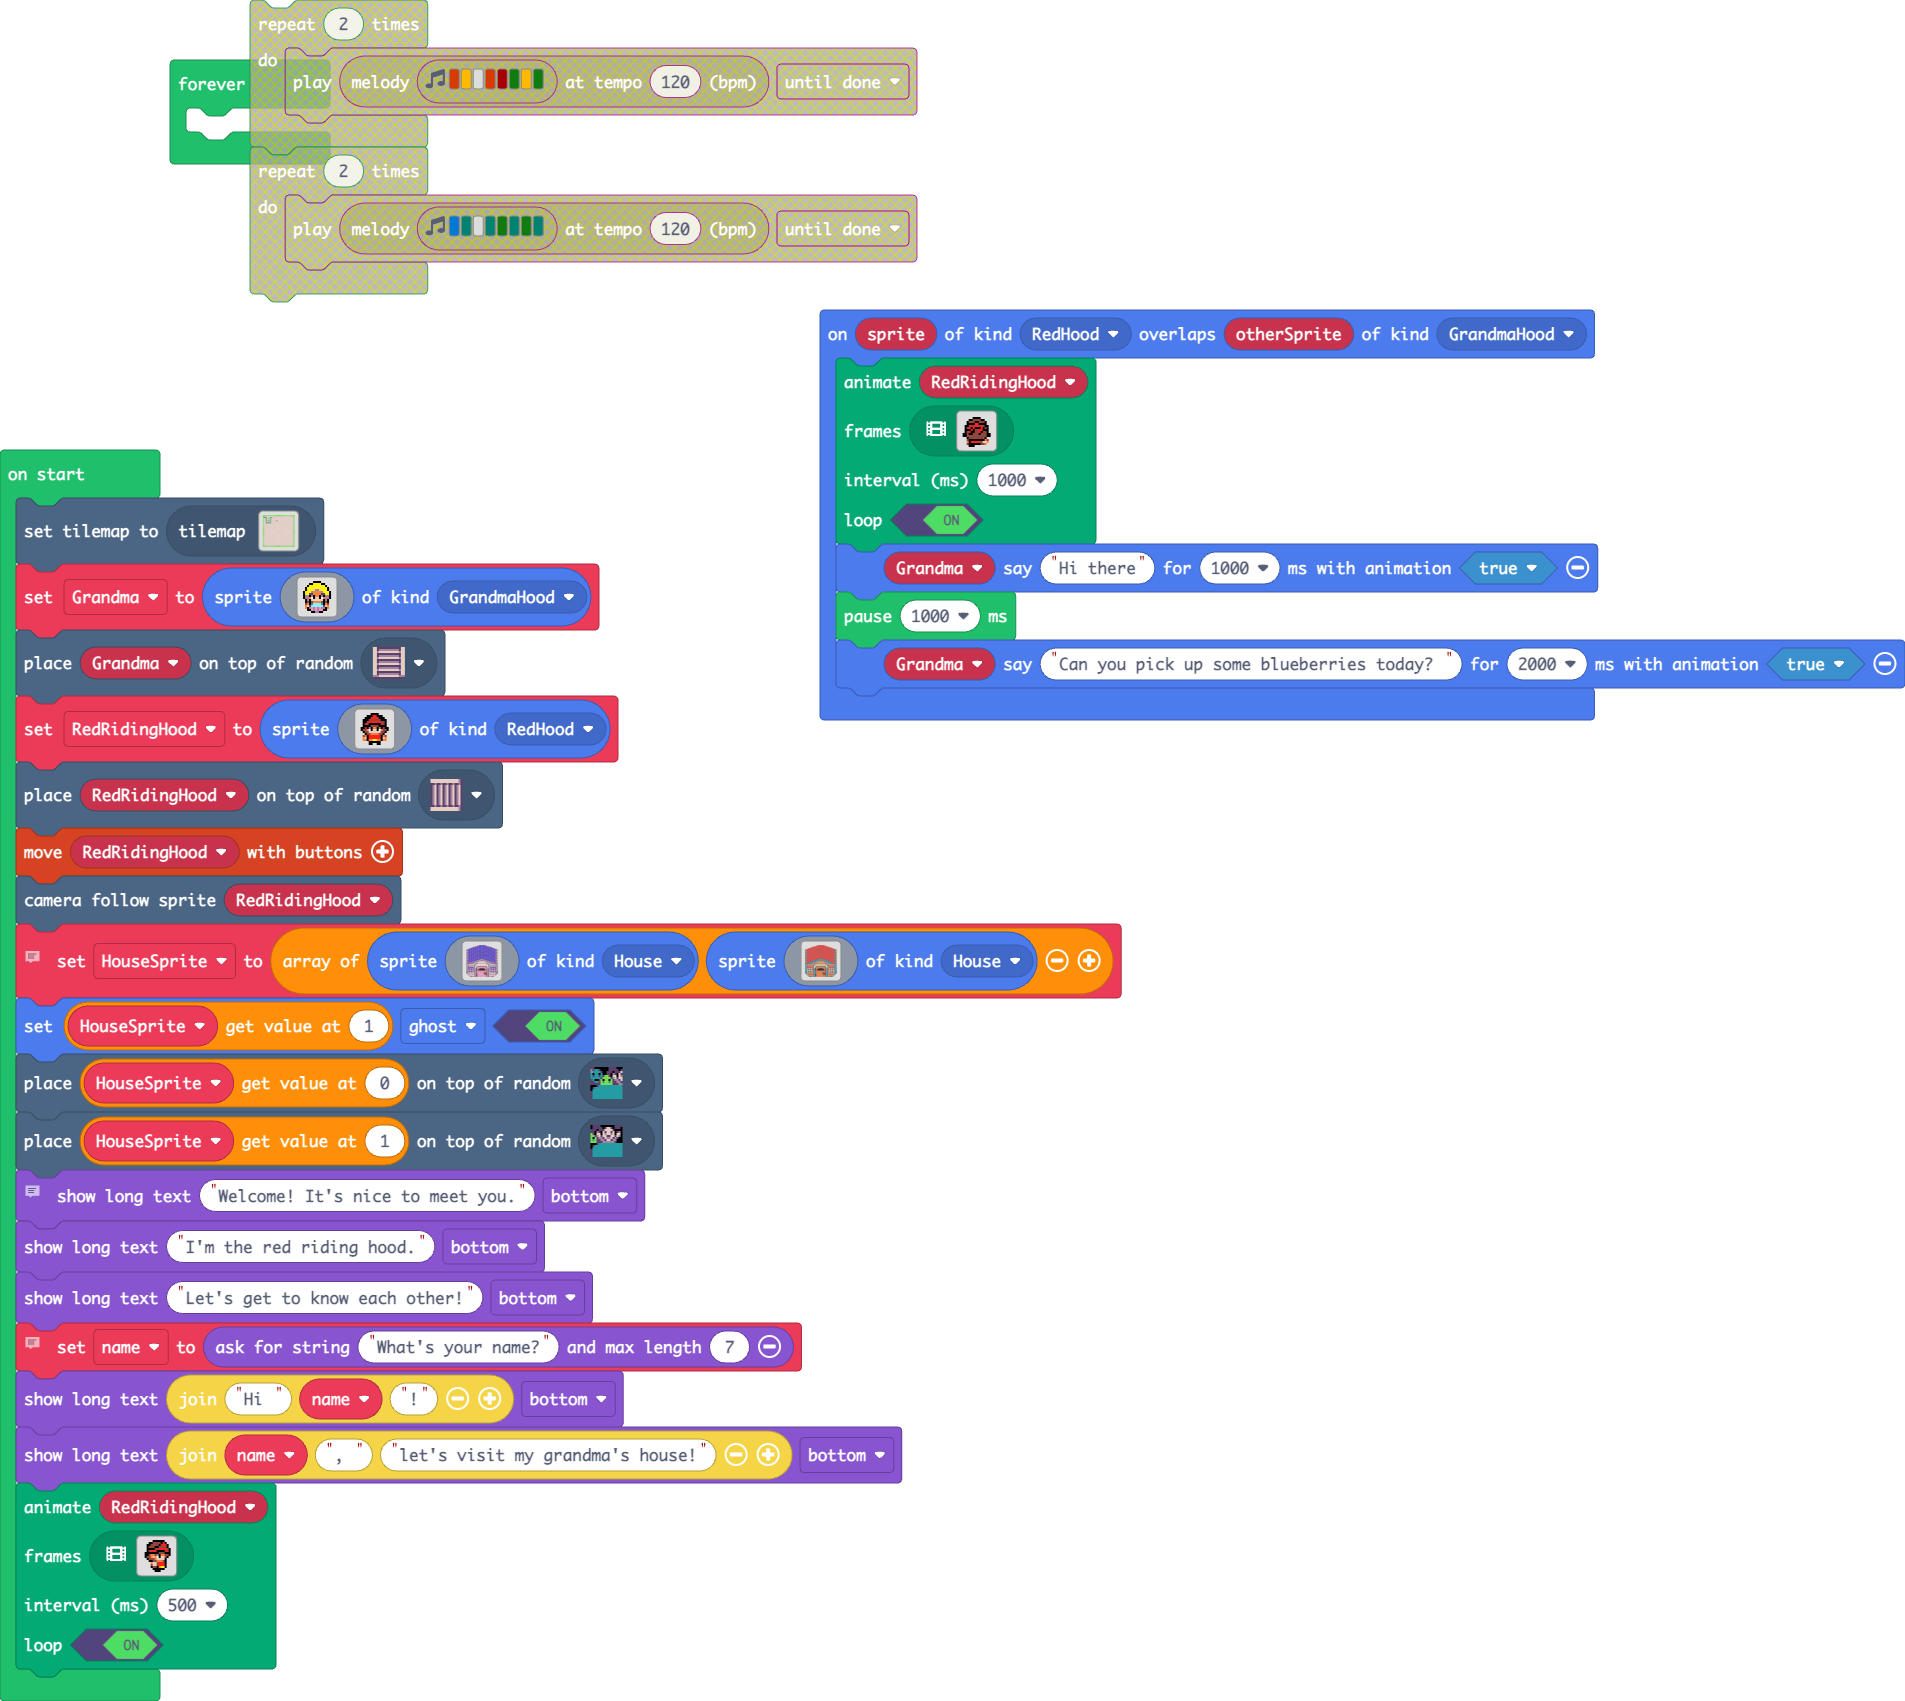
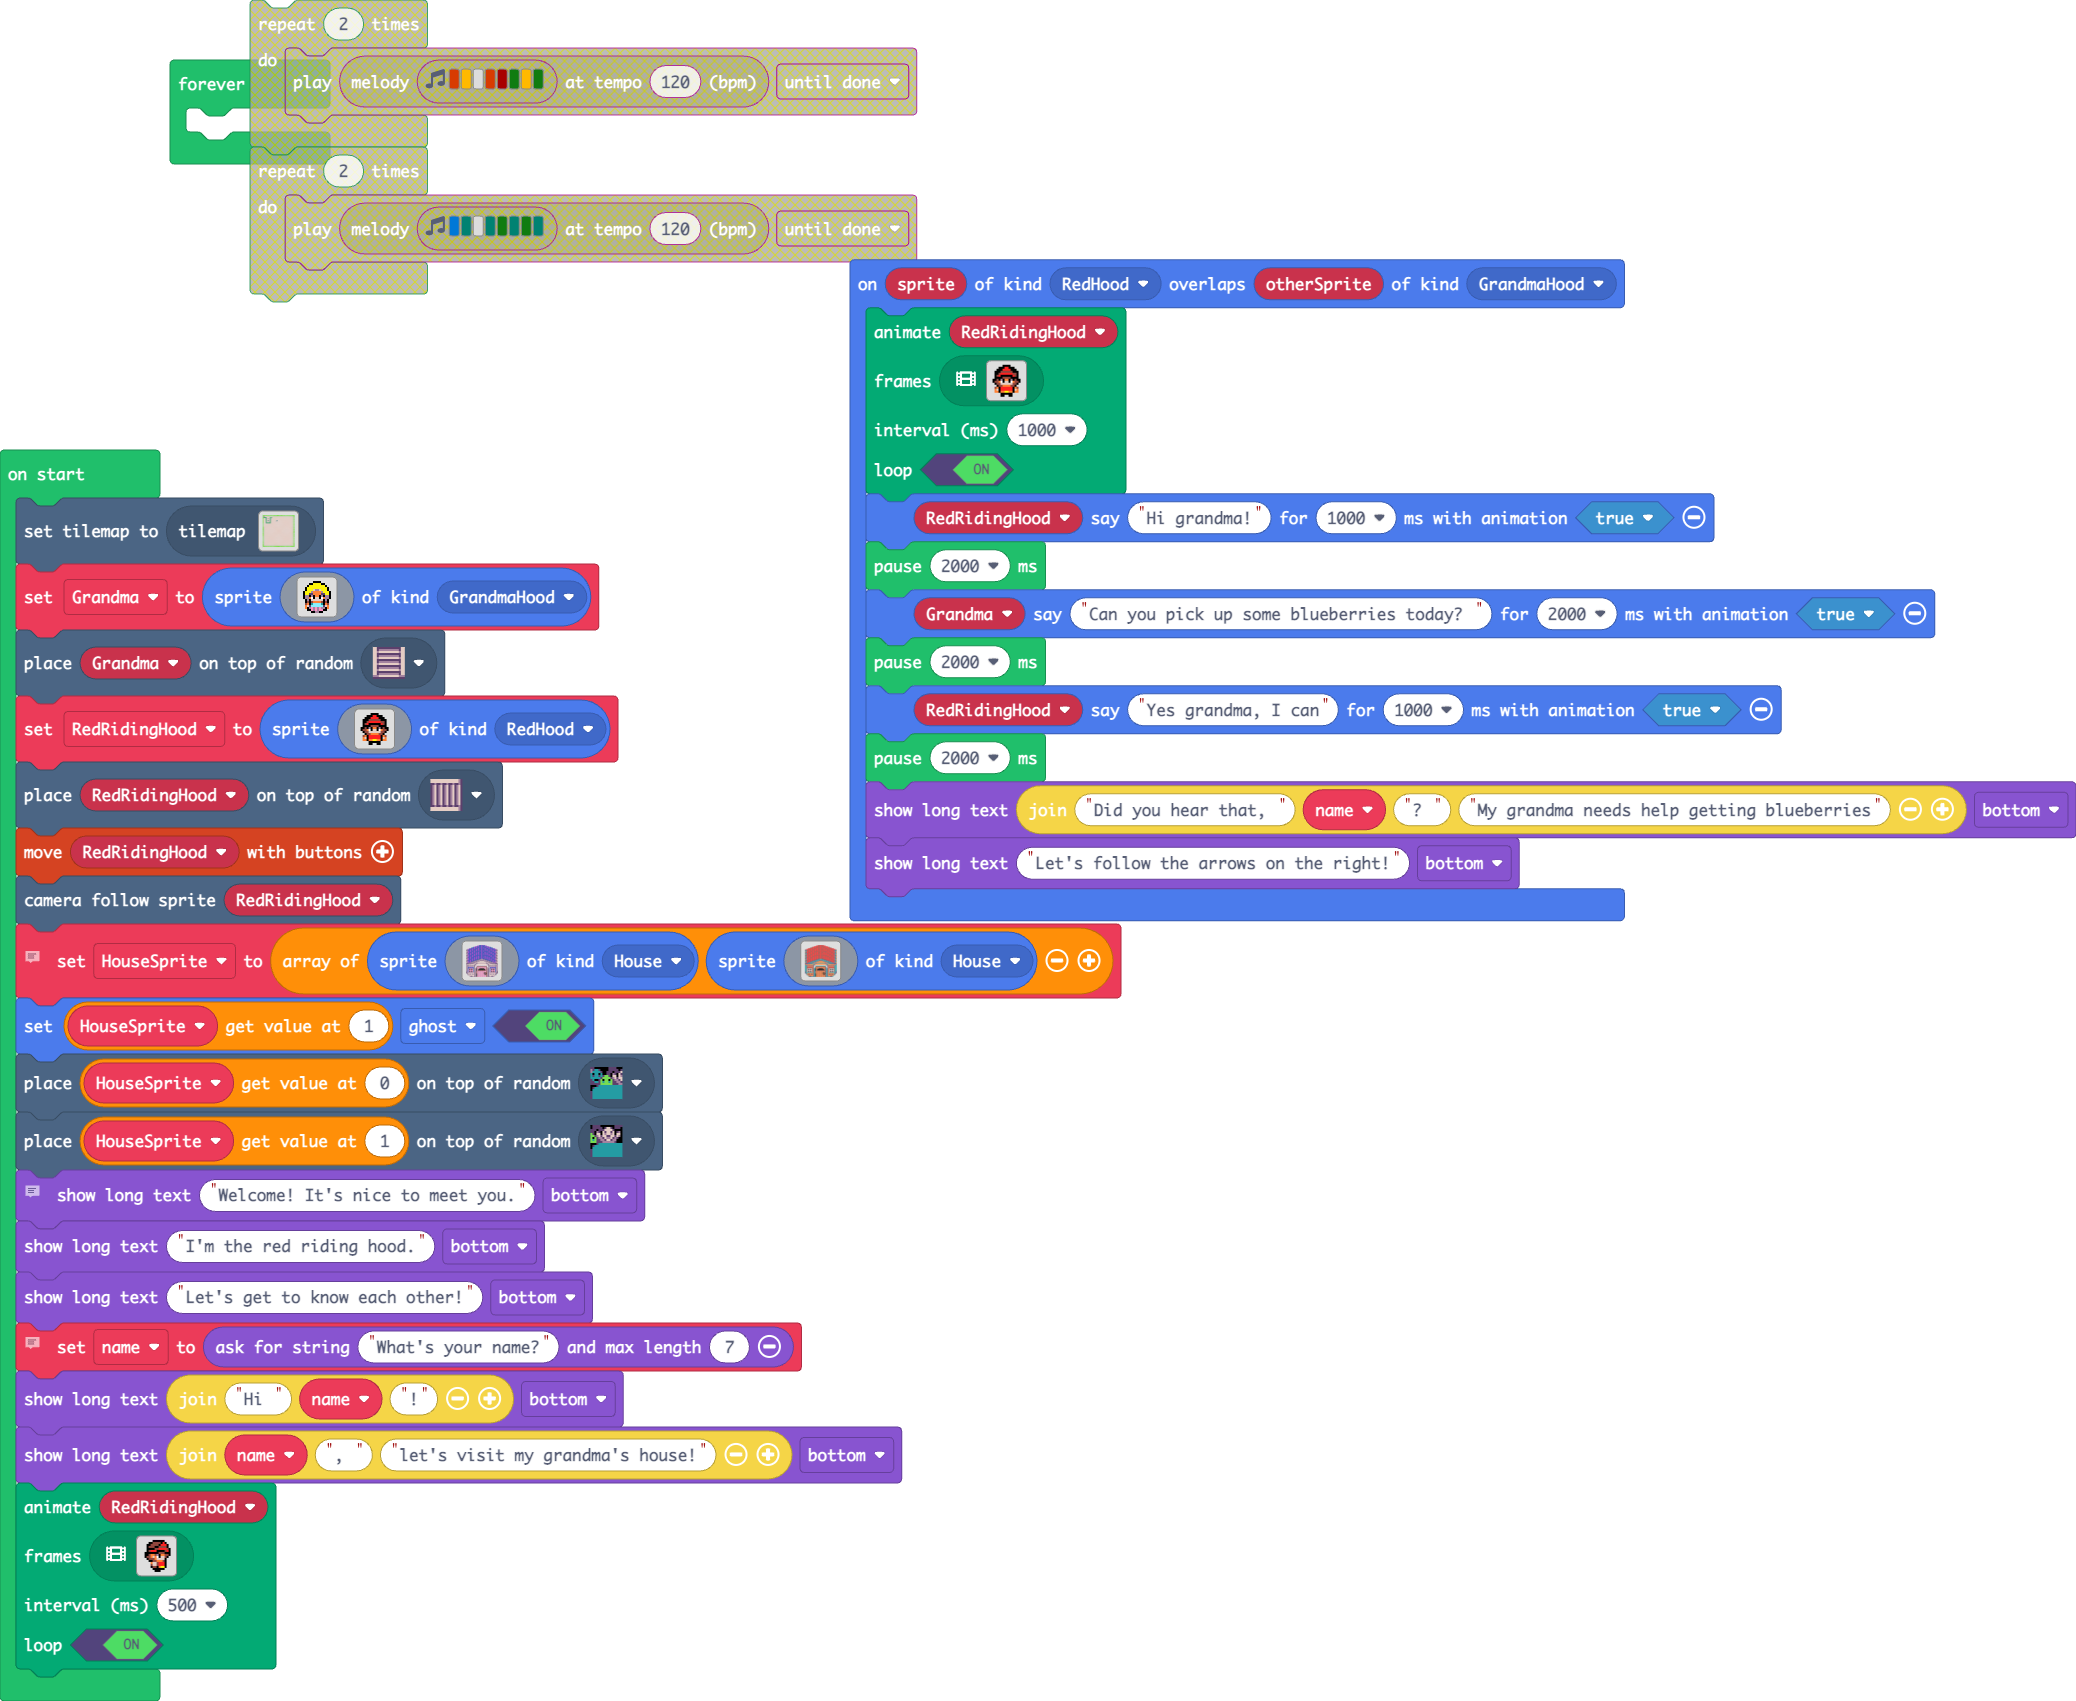
Update main.blocks, main.ts, tilemap.g.jres, tilemap.g.ts

Changed region(s): [[0.0, 0.0, 1.0, 1.0]]

diff --git a/main.ts b/main.ts
@@ -8,64 +8,87 @@ sprites.onOverlap(SpriteKind.RedHood, SpriteKind.GrandmaHood, function (sprite, 
     animation.runImageAnimation(
     RedRidingHood,
     [img`
-        . . . . . . . . . . . . . . . . 
         . . . . . . f f f f . . . . . . 
-        . . . . f f e e e e f f . . . . 
-        . . . f e e e f f e e e f . . . 
-        . . . f f f f 2 2 f f f f . . . 
-        . . f f e 2 e 2 2 e 2 e f f . . 
-        . . f e 2 f 2 f f f 2 f e f . . 
-        . . f f f 2 f e e 2 2 f f f . . 
-        . . f e 2 f f e e 2 f e e f . . 
-        . f f e f f e e e f e e e f f . 
-        . f f e e e e e e e e e e f f . 
-        . . . f e e e e e e e e f . . . 
-        . . . e f f f f f f f f 4 e . . 
-        . . . 4 f 2 2 2 2 2 e d d 4 . . 
-        . . . e f f f f f f e e 4 . . . 
-        . . . . f f f . . . . . . . . . 
-        `,img`
-        . . . . . . f f f f . . . . . . 
-        . . . . f f e e e e f f . . . . 
-        . . . f e e e f f e e e f . . . 
-        . . f f f f f 2 2 f f f f f . . 
-        . . f f e 2 e 2 2 e 2 e f f . . 
-        . . f e 2 f 2 f f 2 f 2 e f . . 
-        . . f f f 2 2 e e 2 2 f f f . . 
-        . f f e f 2 f e e f 2 f e f f . 
-        . f e e f f e e e e f e e e f . 
-        . . f e e e e e e e e e e f . . 
-        . . . f e e e e e e e e f . . . 
-        . . e 4 f f f f f f f f 4 e . . 
+        . . . . f f f 2 2 f f f . . . . 
+        . . . f f f 2 2 2 2 f f f . . . 
+        . . f f f e e e e e e f f f . . 
+        . . f f e 2 2 2 2 2 2 e e f . . 
+        . . f e 2 f f f f f f 2 e f . . 
+        . . f f f f e e e e f f f f . . 
+        . f f e f b f 4 4 f b f e f f . 
+        . f e e 4 1 f d d f 1 4 e e f . 
+        . . f e e d d d d d d e e f . . 
+        . . . f e e 4 4 4 4 e e f . . . 
+        . . e 4 f 2 2 2 2 2 2 f 4 e . . 
         . . 4 d f 2 2 2 2 2 2 f d 4 . . 
-        . . 4 4 f 4 4 4 4 4 4 f 4 4 . . 
+        . . 4 4 f 4 4 5 5 4 4 f 4 4 . . 
         . . . . . f f f f f f . . . . . 
         . . . . . f f . . f f . . . . . 
         `,img`
         . . . . . . . . . . . . . . . . 
         . . . . . . f f f f . . . . . . 
-        . . . . f f e e e e f f . . . . 
-        . . . f e e e f f e e e f . . . 
-        . . . f f f f 2 2 f f f f . . . 
-        . . f f e 2 e 2 2 e 2 e f f . . 
-        . . f e f 2 f f f 2 f 2 e f . . 
-        . . f f f 2 2 e e f 2 f f f . . 
-        . . f e e f 2 e e f f 2 e f . . 
-        . f f e e e f e e e f f e f f . 
-        . f f e e e e e e e e e e f f . 
-        . . . f e e e e e e e e f . . . 
-        . . e 4 f f f f f f f f e . . . 
-        . . 4 d d e 2 2 2 2 2 f 4 . . . 
-        . . . 4 e e f f f f f f e . . . 
+        . . . . f f f 2 2 f f f . . . . 
+        . . . f f f 2 2 2 2 f f f . . . 
+        . . f f f e e e e e e f f f . . 
+        . . f f e 2 2 2 2 2 2 e e f . . 
+        . f f e 2 f f f f f f 2 e f f . 
+        . f f f f f e e e e f f f f f . 
+        . . f e f b f 4 4 f b f e f . . 
+        . . f e 4 1 f d d f 1 4 e f . . 
+        . . . f e 4 d d d d 4 e f e . . 
+        . . f e f 2 2 2 2 e d d 4 e . . 
+        . . e 4 f 2 2 2 2 e d d e . . . 
+        . . . . f 4 4 5 5 f e e . . . . 
+        . . . . f f f f f f f . . . . . 
+        . . . . f f f . . . . . . . . . 
+        `,img`
+        . . . . . . f f f f . . . . . . 
+        . . . . f f f 2 2 f f f . . . . 
+        . . . f f f 2 2 2 2 f f f . . . 
+        . . f f f e e e e e e f f f . . 
+        . . f f e 2 2 2 2 2 2 e e f . . 
+        . . f e 2 f f f f f f 2 e f . . 
+        . . f f f f e e e e f f f f . . 
+        . f f e f b f 4 4 f b f e f f . 
+        . f e e 4 1 f d d f 1 4 e e f . 
+        . . f e e d d d d d d e e f . . 
+        . . . f e e 4 4 4 4 e e f . . . 
+        . . e 4 f 2 2 2 2 2 2 f 4 e . . 
+        . . 4 d f 2 2 2 2 2 2 f d 4 . . 
+        . . 4 4 f 4 4 5 5 4 4 f 4 4 . . 
+        . . . . . f f f f f f . . . . . 
+        . . . . . f f . . f f . . . . . 
+        `,img`
+        . . . . . . . . . . . . . . . . 
+        . . . . . . f f f f . . . . . . 
+        . . . . f f f 2 2 f f f . . . . 
+        . . . f f f 2 2 2 2 f f f . . . 
+        . . f f f e e e e e e f f f . . 
+        . . f e e 2 2 2 2 2 2 e f f . . 
+        . f f e 2 f f f f f f 2 e f f . 
+        . f f f f f e e e e f f f f f . 
+        . . f e f b f 4 4 f b f e f . . 
+        . . f e 4 1 f d d f 1 4 e f . . 
+        . . e f e 4 d d d d 4 e f . . . 
+        . . e 4 d d e 2 2 2 2 f e f . . 
+        . . . e d d e 2 2 2 2 f 4 e . . 
+        . . . . e e f 5 5 4 4 f . . . . 
+        . . . . . f f f f f f f . . . . 
         . . . . . . . . . f f f . . . . 
         `],
     1000,
     true
     )
-    Grandma.sayText("Hi there", 1000, true)
-    pause(1000)
+    RedRidingHood.sayText("Hi grandma!", 1000, true)
+    pause(2000)
     Grandma.sayText("Can you pick up some blueberries today? ", 2000, true)
+    pause(2000)
+    RedRidingHood.sayText("Yes grandma, I can", 1000, true)
+    pause(2000)
+    game.showLongText("Did you hear that, " + name + "? " + "My grandma needs help getting blueberries", DialogLayout.Bottom)
+    game.showLongText("Let's follow the arrows on the right!", DialogLayout.Bottom)
 })
+let name = ""
 let RedRidingHood: Sprite = null
 let Grandma: Sprite = null
 tiles.setCurrentTilemap(tilemap`level1`)
@@ -217,7 +240,7 @@ game.showLongText("Welcome! It's nice to meet you.", DialogLayout.Bottom)
 game.showLongText("I'm the red riding hood.", DialogLayout.Bottom)
 game.showLongText("Let's get to know each other!", DialogLayout.Bottom)
 // game asks for player's name as input
-let name = game.askForString("What's your name?", 7)
+name = game.askForString("What's your name?", 7)
 game.showLongText("Hi " + name + "!", DialogLayout.Bottom)
 game.showLongText("" + name + ", " + "let's visit my grandma's house!", DialogLayout.Bottom)
 animation.runImageAnimation(

diff --git a/tilemap.g.ts b/tilemap.g.ts
@@ -88,6 +88,25 @@ namespace myTiles {
 2............................2
 222222222222222222222222222222
 `, [myTiles.transparency16,sprites.castle.tileGrass2,sprites.castle.tileGrass1,sprites.castle.tileGrass3,sprites.castle.tilePath4,sprites.castle.tilePath2,sprites.castle.tilePath7,sprites.castle.tilePath5,sprites.castle.tilePath8,sprites.castle.tilePath6,sprites.castle.tilePath3,sprites.builtin.crowd0,sprites.builtin.crowd4,sprites.dungeon.stairWest,sprites.builtin.forestTiles0,sprites.dungeon.stairNorth,myTiles.tile6], TileScale.Sixteen);
+            case "level4":
+            case "level4":return tiles.createTilemap(hex`1000100000000000000000000000000000000000000000000000000000000000000000000000000000000000000000000000000000000000000000000000000000000000000000000000000000000000000000000000000000000000000000000000000000000000000000000000000000000000000000000000000000000000000000000000000000000000000000000000000000000000000000000000000000000000000000000000000000000000000000000000000000000000000000000000000000000000000000000000000000000000000000000000000000000000000000000000000000000000000000000000000000000000000000000000000000000000`, img`
+. . . . . . . . . . . . . . . . 
+. . . . . . . . . . . . . . . . 
+. . . . . . . . . . . . . . . . 
+. . . . . . . . . . . . . . . . 
+. . . . . . . . . . . . . . . . 
+. . . . . . . . . . . . . . . . 
+. . . . . . . . . . . . . . . . 
+. . . . . . . . . . . . . . . . 
+. . . . . . . . . . . . . . . . 
+. . . . . . . . . . . . . . . . 
+. . . . . . . . . . . . . . . . 
+. . . . . . . . . . . . . . . . 
+. . . . . . . . . . . . . . . . 
+. . . . . . . . . . . . . . . . 
+. . . . . . . . . . . . . . . . 
+. . . . . . . . . . . . . . . . 
+`, [myTiles.transparency16], TileScale.Sixteen);
         }
         return null;
     })
